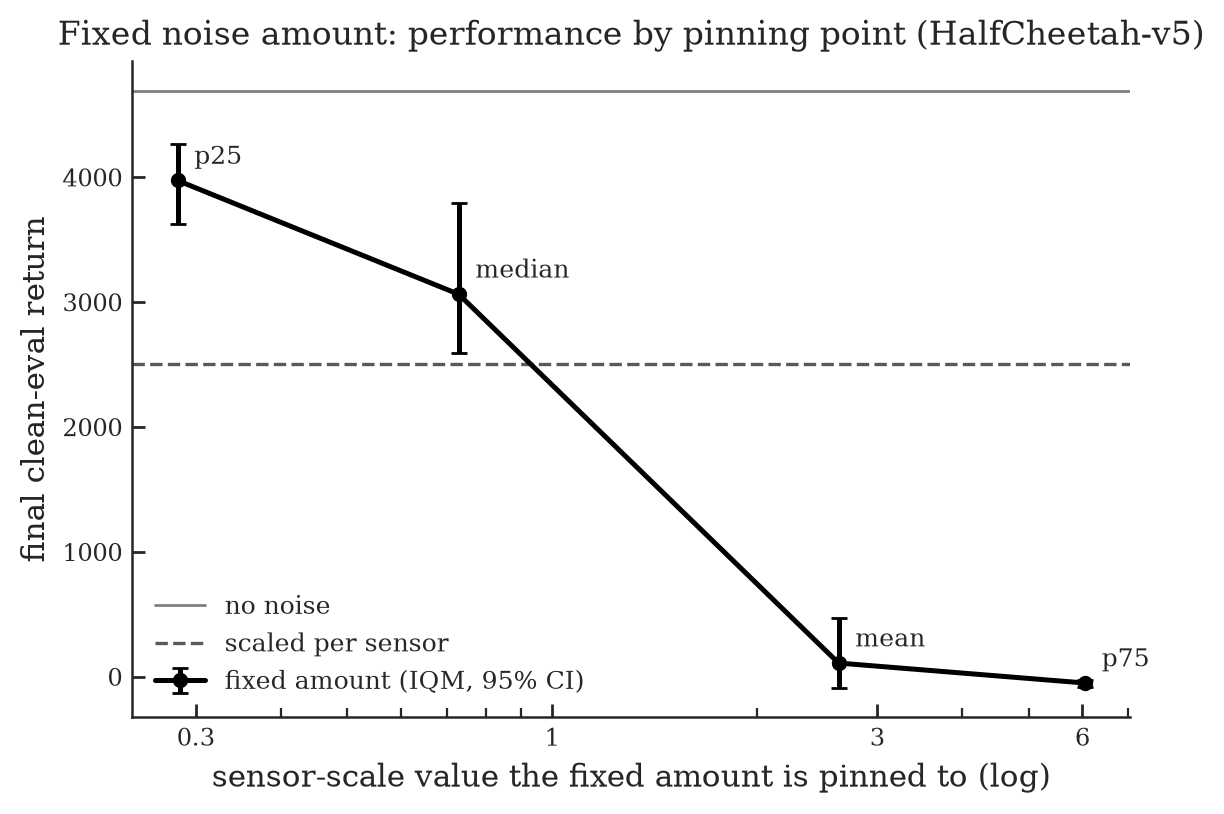
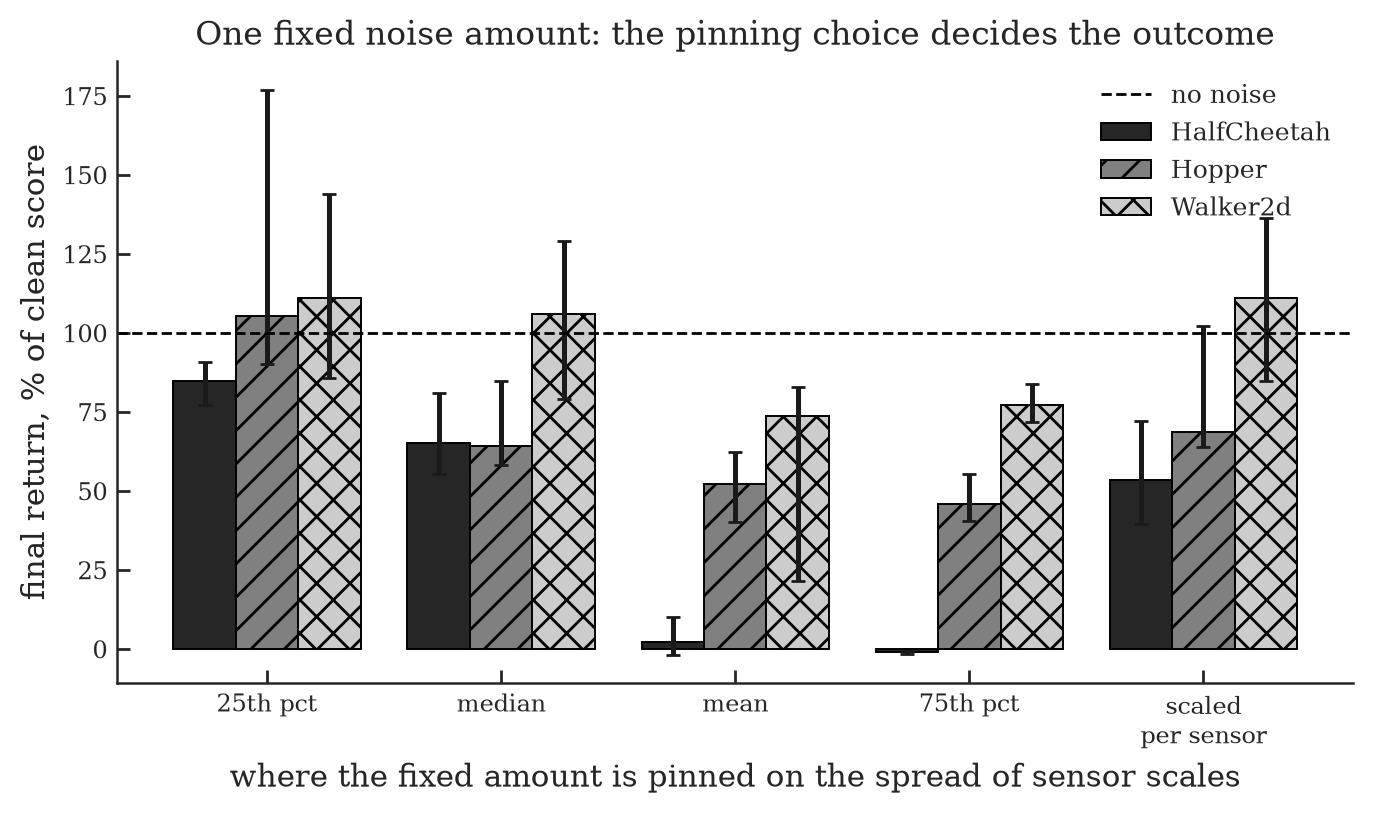
feat: generalise fixed-pinning study to Hopper and Walker2d; results-first README
- fixed-pinning runs on Hopper-v5 and Walker2d-v5 (8 seeds each); the pinning
  figure is now a grouped bar chart across all three environments
- README restructured to lead with the four findings and one results table;
  AUDIT.md removed and assets pruned to the five referenced figures

diff --git a/scripts/plot_fixed.py b/scripts/plot_fixed.py
@@ -1,8 +1,10 @@
-"""Final return vs where the fixed noise amount is pinned on the sensor-scale
-spread. Reads a results dir with fixed-<stat> runs plus 'none' and
-'uniform-calibrated' anchors.
+"""Bar chart: final return (% of clean) for the fixed noise amount pinned at
+each summary of the sensor-scale spread, next to the per-sensor scaled
+version, grouped by environment. Reads results dirs with fixed-<stat> runs
+plus 'none' and 'uniform-calibrated' anchors.
 
-  uv run python scripts/plot_fixed.py --outdir results_fixed --figdir assets
+  uv run python scripts/plot_fixed.py --figdir assets \
+      --pairs HalfCheetah-v5:results_fixed Hopper-v5:results_fixed_hopper Walker2d-v5:results_fixed_walker2d
 """
 
 from __future__ import annotations
@@ -10,18 +12,16 @@ from __future__ import annotations
 import json
 import os
 
-import gymnasium as gym
 import matplotlib.pyplot as plt
 import numpy as np
 import tyro
-from matplotlib.ticker import FuncFormatter, NullFormatter
 
-from stochrl import collect_signal_stats
 from stochrl.plotting import finish, set_style
-from stochrl.presets import SCALE_STATS
 from stochrl.stats import bootstrap_ci, iqm
 
-STATS = ["p25", "median", "mean", "p75"]
+CONDITIONS = [("fixed-p25", "25th pct"), ("fixed-median", "median"), ("fixed-mean", "mean"),
+              ("fixed-p75", "75th pct"), ("uniform-calibrated", "scaled\nper sensor")]
+ENV_STYLE = [("0.15", ""), ("0.5", "//"), ("0.8", "xx")]
 
 
 def finals(outdir, mode):
@@ -34,40 +34,35 @@ def finals(outdir, mode):
     return out
 
 
-def main(outdir: str = "results_fixed", figdir: str = "assets", prefix: str = "fixed",
-         env_id: str = "HalfCheetah-v5", calib_steps: int = 10_000, calib_seed: int = 0):
+def main(figdir: str = "assets", prefix: str = "fixed",
+         pairs: list[str] = ["HalfCheetah-v5:results_fixed", "Hopper-v5:results_fixed_hopper",
+                             "Walker2d-v5:results_fixed_walker2d"]):
     set_style()
     os.makedirs(figdir, exist_ok=True)
-    # same calibration rollout the training runs used, so the x positions are
-    # the actual pinned values
-    scale = collect_signal_stats(gym.make(env_id), steps=calib_steps, seed=calib_seed).scale
 
-    xs, pts, err = [], [], [[], []]
-    for stat in STATS:
-        pt, lo, hi = bootstrap_ci(finals(outdir, f"fixed-{stat}"))
-        xs.append(SCALE_STATS[stat](scale))
-        pts.append(pt)
-        err[0].append(pt - lo)
-        err[1].append(hi - pt)
-
-    clean = iqm(finals(outdir, "none"))
-    calib = iqm(finals(outdir, "uniform-calibrated"))
-
-    fig, ax = plt.subplots(figsize=(6.0, 4.2))
-    ax.axhline(clean, color="0.0", ls="-", lw=1.0, alpha=0.5, label="no noise")
-    ax.axhline(calib, color="0.35", ls="--", lw=1.2, label="scaled per sensor")
-    ax.errorbar(xs, pts, yerr=err, color="black", marker="o", capsize=3,
-                label="fixed amount (IQM, 95% CI)")
-    for x, pt, stat in zip(xs, pts, STATS):
-        ax.annotate(stat, (x, pt), textcoords="offset points", xytext=(6, 6), fontsize=9)
-    ax.set_xscale("log")
-    ax.set_xticks([0.3, 1, 3, 6])
-    ax.xaxis.set_major_formatter(FuncFormatter(lambda v, _: f"{v:g}"))
-    ax.xaxis.set_minor_formatter(NullFormatter())
-    ax.set(xlabel="sensor-scale value the fixed amount is pinned to (log)",
-           ylabel="final clean-eval return")
-    ax.set_title(f"Fixed noise amount: performance by pinning point ({env_id})")
-    ax.legend(loc="lower left")
+    fig, ax = plt.subplots(figsize=(7.0, 4.2))
+    x = np.arange(len(CONDITIONS))
+    width = 0.8 / len(pairs)
+    for i, pair in enumerate(pairs):
+        env_id, outdir = pair.split(":")
+        clean = iqm(finals(outdir, "none"))
+        ys, err = [], [[], []]
+        for mode, _ in CONDITIONS:
+            pt, lo, hi = bootstrap_ci(finals(outdir, mode))
+            ys.append(100 * pt / clean)
+            err[0].append(100 * (pt - lo) / clean)
+            err[1].append(100 * (hi - pt) / clean)
+        shade, hatch = ENV_STYLE[i % len(ENV_STYLE)]
+        ax.bar(x + (i - (len(pairs) - 1) / 2) * width, ys, width, yerr=err, capsize=2.5,
+               color=shade, hatch=hatch, edgecolor="black", lw=0.7,
+               label=env_id.replace("-v5", ""))
+    ax.axhline(100, color="black", ls="--", lw=1, label="no noise")
+    ax.set_xticks(x)
+    ax.set_xticklabels([label for _, label in CONDITIONS])
+    ax.set(xlabel="where the fixed amount is pinned on the spread of sensor scales",
+           ylabel="final return, % of clean score")
+    ax.set_title("One fixed noise amount: the pinning choice decides the outcome")
+    ax.legend(loc="upper right")
     finish(fig, ax)
     fig.savefig(f"{figdir}/{prefix}_pinning.png")
     print(f"Saved {figdir}/{prefix}_pinning.png")

diff --git a/README.md b/README.md
@@ -1,22 +1,30 @@
 # StochRL
 
-A benchmark for reinforcement learning under realistic sensor noise, built on Soft Actor Critic and MuJoCo.
+A benchmark for reinforcement learning under realistic sensor noise, built on Soft Actor Critic and MuJoCo (Gymnasium `HalfCheetah-v5`, `Hopper-v5`, `Walker2d-v5`).
 
-Most studies that test RL under noise add the same Gaussian jitter to every sensor. Real sensors do not behave that way. Some are noisier than others, some get worse in certain situations, and the errors are not always clean bell curves. StochRL adds noise the way real hardware does. It scales the noise to each sensor, lets it depend on what the robot is doing, and measures how much that changes what SAC learns.
+Most noise studies add the same Gaussian jitter to every sensor. Real sensors differ in scale, get worse in certain situations, and fail in non-Gaussian ways. StochRL scales noise to each sensor, lets it depend on the state, and measures the damage to learning: training always happens under noise, and every score is the return on a clean, noise free copy of the environment.
 
-The main experiments run on `HalfCheetah-v5`, with a smaller check on `Hopper-v5` and `Walker2d-v5`. Training always happens under noise, and every score is measured on a clean, noise free copy of the environment, so we see how much the noise damaged learning rather than how blind the agent is at test time.
+## Results
 
-## What we found
+**1. Scaling noise to each sensor makes the benchmark harder and fairer.** The usual baseline, one absolute amount everywhere, leaves SAC at 63% of its clean score; the same `rho` scaled per sensor drops it to 45%, and a realistic mix (drift, dropouts, rounding) to 49%. The absolute baseline looks mild only because it barely touches the large, fast sensors the controller depends on.
 
 ![Learning curves](assets/benchmark_curves.png)
 
-Noise hurts, and the usual way of adding it understates the damage. A single absolute amount barely touches the fast moving sensors, the ones the controller leans on, so scaling the noise to each sensor is fairer and clearly harder. The choice of that single amount also matters far more than it should: pinned low on the spread of sensor scales, the noise is mild; pinned at the mean, learning nearly stops.
+**2. A single fixed noise amount is an arbitrary experiment.** The one number has to be pinned somewhere on the spread of sensor scales, and that choice decides the outcome: on HalfCheetah, pinning at the 25th percentile leaves 85% of the clean score, at the mean 2%. The pattern holds on Hopper (105% at the lowest pin, 46% at the highest) and Walker2d (111% at the lowest, 74% at the worst), and no pin matches the scaled version on all three environments. A fixed amount means a different thing on every robot; `rho` scaled per sensor means the same thing everywhere.
 
-Where the noise lands matters as much as how much is added. The same total noise, aimed at the fast and busy moments, hurts far more than noise spread evenly over time. And the damage runs through the speed sensors: noise on the joint angles barely dents performance, while the same relative noise on the speed sensors is very damaging.
+![Fixed amount by pinning choice](assets/fixed_pinning.png)
 
-## All results in one place
+**3. Where the noise lands in time matters as much as how much there is.** With total noise held equal, concentrating velocity-sensor noise at the fast moments costs 72% → 54%, well outside the seed spread. The identical manipulation on position sensors does nothing (92% vs 89%). With both groups noisy, velocity timing alone explains the damage.
 
-Return is shown as a percentage of the no noise score, so higher is better.
+![Velocity timing](assets/statedep_curves.png)
+
+**4. Damage grows steeply with the noise level.** At 5 / 10 / 20% of each sensor's spread, calibrated noise leaves 80 / 45 / 18% of the clean score (realistic mix: 79 / 49 / 29%).
+
+![Score vs noise level](assets/rho_sweep.png)
+
+### Every number
+
+Return as a percentage of the no noise score for that study; higher is better.
 
 | Experiment | Condition | Return vs no noise | Seeds |
 |---|---|---|---|
@@ -29,6 +37,8 @@ Return is shown as a percentage of the no noise score, so higher is better.
 | | mean of sensor scales | 2% | 8 |
 | | 75th percentile of sensor scales | -1% | 8 |
 | | scaled to each sensor (8-seed rerun) | 53% | 8 |
+| Fixed pinning, Hopper-v5 | p25 / median / mean / p75 / scaled | 105%, 64%, 52%, 46%, 69% | 8 |
+| Fixed pinning, Walker2d-v5 | p25 / median / mean / p75 / scaled | 111%, 106%, 74%, 77%, 111% | 8 |
 | Velocity timing | steady over time | 72% | 8 |
 | | concentrated at fast moments | 54% | 8 |
 | Position timing | steady over time | 92% | 8 |
@@ -44,85 +54,46 @@ Return is shown as a percentage of the no noise score, so higher is better.
 
 ## How the noise is added
 
-Every sensor gets noise sized to its own normal range. For one sensor at one moment the rule is
+For one sensor at one moment:
 
 ```
 noise size = rho * (that sensor's normal spread) * (a state factor)
 ```
 
-`rho` is the single knob, set to 0.1, which means 10 percent. Flat noise keeps the state factor constant, so a sensor gets the same jitter whether the robot is calm or thrashing. State dependent noise keeps the total the same but concentrates it at the extreme moments: more noise at high speed for a speed sensor, more at large deflections for a joint angle. Sensors can also get richer patterns: positions get a little Gaussian noise plus rounding, like a real encoder, and velocities get slow drift plus the occasional dropped reading.
+Each sensor's normal spread is measured once from a 10,000 step random rollout (fixed seed, shared by every run). `rho` is the single knob, 0.1 by default. The state factor is 1 for flat noise; for state dependent noise it grows with distance from the sensor's typical value (fast motion, large deflection), and the flat control uses a constant matched to the same average variance, so the two differ only in timing. Richer patterns compose from Gaussian noise, Ornstein-Uhlenbeck drift, dropout, quantization, bias and delay.
 
-![Clean vs noisy signals](assets/02_trajectories.png)
-
-Sizing per sensor matters because the sensors are on very different scales. On HalfCheetah they span about forty times, so a single absolute amount is huge for the small sensors and invisible for the large ones.
+Sizing per sensor matters because the scales are heavily skewed: spans of 37x (HalfCheetah), 72x (Hopper) and 112x (Walker2d) between the smallest and largest channels, with a few fast velocity channels pulling the mean far above the median.
 
 ![Per sensor scale](assets/01_signal_scale.png)
 
-## The experiments
-
-### Noise style
-
-Adding noise at `rho = 0.1` drops SAC to between 45 and 63 percent of its clean score (learning curves above), and the clean run is still improving at the end while the noisy ones have flattened. The absolute amount version looks least harmful only because it barely perturbs the fast sensors; scaled to each sensor, the noise bites harder. The realistic mix lands in between.
-
-### Where the fixed amount is pinned
-
-The sensor scales that a single absolute amount summarises are heavily skewed: on HalfCheetah the 25th percentile is 0.28, the median 0.73, the mean 2.6 and the 75th percentile 6.1, because a few fast velocity channels pull the upper end. Pinning the fixed amount to each of those points gives completely different verdicts, from mild to fatal, with the per sensor scaled version in between. A benchmark built on one fixed number is largely a benchmark of where that number was pinned.
-
-![Fixed amount by pinning point](assets/fixed_pinning.png)
-
-### Where the noise lands
-
-Each condition here carries the same total noise and differs only in timing. On the velocity sensors the timing matters: concentrating the noise at the fast moments drops the score from 72 to 54 percent of clean, a gap well outside the spread across seeds. On the position sensors it barely does (92 versus 89 percent, within the seed spread). With both groups noisy at once the velocity timing does the damage: it drops 69 to 54 percent, position timing only reaches 61, and both together are no worse than velocity timing alone. State dependence matters where the sensor matters, and on HalfCheetah that is velocity.
-
-![Velocity timing](assets/statedep_curves.png)
-
-### How damage scales with the noise level
-
-![Score vs noise level](assets/rho_sweep.png)
-
-At 20 percent of each sensor's spread, SAC drops below a third of its clean score. The two styles look the same at low levels, and the realistic drift noise becomes somewhat less harmful as the level rises, probably because slow drift is more predictable than fresh random jitter. The spread across seeds is wide at 20 percent, so treat that gap as a trend.
-
-### Other environments
-
-The noise style study repeats on Hopper-v5 and Walker2d-v5 at 5 seeds. On Hopper the ordering flips: the absolute amount hurts more than the scaled version (42 versus 78 percent), most likely because Hopper's sensors sit on smaller scales, so the same absolute number is relatively larger there, and the realistic mix is the most damaging at 27 percent. Walker2d says less: even without noise SAC reaches only about 340 in 50,000 steps, versus roughly 4,700 on HalfCheetah, and at that level the three noise styles are indistinguishable.
-
-## Parameters and constants
-
-Everything the experiments and code depend on, in one place.
+## Setup
 
 | Setting | Value |
 |---|---|
-| Environment | HalfCheetah-v5 for the main studies; Hopper-v5 and Walker2d-v5 for the environment check |
-| Algorithm | Soft Actor Critic, CleanRL single file, run unchanged |
+| Algorithm | Soft Actor Critic, CleanRL single file, run unchanged (verbatim reproduction checked to the digit) |
 | Replay buffer | stable-baselines3 buffer, size 1,000,000 |
 | Network | two hidden layers of 256 units, ReLU, twin critics, tanh Gaussian policy |
-| Discount gamma | 0.99 |
-| Target smoothing tau | 0.005 |
-| Batch size | 256 |
-| Learning starts after | 5,000 steps |
-| Policy learning rate | 3e-4 |
-| Critic learning rate | 1e-3 |
+| Discount gamma / smoothing tau | 0.99 / 0.005 |
+| Batch size / learning starts | 256 / 5,000 steps |
+| Learning rates | policy 3e-4, critics 1e-3 |
 | Update schedule | policy every 2 steps, target networks every step |
 | Entropy temperature | tuned automatically, target entropy equal to minus the action dimension |
 | Log std range | negative 5 to positive 2 |
 | Training length | 50,000 steps per run, a short prototype budget (real studies use 1,000,000) |
 | Noise level rho | 0.1 by default, also 0.05 and 0.2 for the level sweep |
-| Calibration | each sensor's scale measured from a 10,000 step random rollout, fixed seed 0, shared by all runs |
+| Calibration | per-sensor spread from a 10,000 step random rollout, fixed seed 0, shared by all runs |
 | State factor, state dependent | 0.5 plus the distance from typical, in units of the sensor's own spread |
-| State factor, flat | a constant equal to the root mean square of the above, about 1.43, so both inject equal total noise |
-| Position channels used | joint angle sensors only, the first two (torso height and pitch) are left clean because they drift between runs |
-| Evaluation | 3 episodes on a clean environment every 2,500 steps, using the greedy mean action |
-| Seeds | 3 for the noise style and level studies, 8 for the state dependence and fixed amount studies, 5 for Hopper and Walker2d |
-| Aggregation | interquartile mean across seeds with a 95 percent bootstrap interval, falls back to the plain mean below 4 seeds |
-| Compute | CPU, 1 thread per run, 12 runs in parallel, which is fastest for these small networks |
+| State factor, flat | a constant equal to the root mean square of the above, so both inject equal total noise |
+| Position channels used | joint angle sensors only; the root pose channels are left clean because they drift between runs |
+| Random streams | observation noise, action noise, calibration, env and policy all seeded independently; identical seeds give byte-identical runs |
+| Evaluation | 3 episodes on a clean environment every 2,500 steps, greedy mean action |
+| Seeds | 3 for the noise style and level studies, 8 for the state dependence and fixed amount studies (all environments), 5 for the Hopper and Walker2d noise style check |
+| Aggregation | interquartile mean across seeds with a 95 percent bootstrap interval, plain mean below 4 seeds |
+| Compute | CPU, 1 thread per run, 12 runs in parallel |
 
-## Correctness and limits
+Limits: the budget is a short 50,000 steps everywhere; the 3-seed studies are plain means; Walker2d barely learns at this budget, so its numbers say little. The stochastic transition variant (jolting the world rather than the readings) and a comparison across learning algorithms are still to do.
 
-The SAC and noise code went through a line-by-line correctness review that caught and fixed four real bugs, among them a miscalibrated drift process and a calibration seed that varied between runs. Swapping in the exact CleanRL SAC reproduced our numbers to the digit, which confirms the baseline is faithful. Full notes live in AUDIT.md.
-
-The limits: the budget is a short 50,000 steps everywhere. The noise style and level studies use 3 seeds and are reported as plain means; the state dependence and fixed amount studies use 8 seeds with interquartile means and intervals; the Hopper and Walker2d checks use 5. Walker2d barely learns at this budget, so its numbers say little. The stochastic transition variant, where the world itself is jolted rather than the readings, and a comparison across learning algorithms are both still to do.
-
-## Reproduce it
+## Reproduce
 
 ```bash
 uv sync
@@ -135,11 +106,18 @@ uv run python scripts/run_benchmark.py --modes none uniform uniform-calibrated r
     --seeds 1 2 3 --total-timesteps 50000 --jobs 12 --threads-per-job 1 --outdir results_modes
 uv run python scripts/plot_results.py --outdir results_modes --figdir assets --prefix benchmark
 
-# fixed amount by pinning point
+# fixed amount by pinning point, on all three environments
 uv run python scripts/run_benchmark.py \
     --modes none fixed-p25 fixed-median fixed-mean fixed-p75 uniform-calibrated \
     --seeds 1 2 3 4 5 6 7 8 --total-timesteps 50000 --jobs 12 --threads-per-job 1 --outdir results_fixed
-uv run python scripts/plot_fixed.py --outdir results_fixed --figdir assets
+uv run python scripts/run_benchmark.py --env-id Hopper-v5 \
+    --modes none fixed-p25 fixed-median fixed-mean fixed-p75 uniform-calibrated \
+    --seeds 1 2 3 4 5 6 7 8 --total-timesteps 50000 --jobs 12 --threads-per-job 1 --outdir results_fixed_hopper
+uv run python scripts/run_benchmark.py --env-id Walker2d-v5 \
+    --modes none fixed-p25 fixed-median fixed-mean fixed-p75 uniform-calibrated \
+    --seeds 1 2 3 4 5 6 7 8 --total-timesteps 50000 --jobs 12 --threads-per-job 1 --outdir results_fixed_walker2d
+uv run python scripts/plot_fixed.py --figdir assets --pairs HalfCheetah-v5:results_fixed \
+    Hopper-v5:results_fixed_hopper Walker2d-v5:results_fixed_walker2d
 
 # state dependence study, velocity and position and both
 uv run python scripts/run_benchmark.py \
@@ -155,7 +133,7 @@ uv run python scripts/run_benchmark.py --modes uniform-calibrated realistic --se
 uv run python scripts/plot_rho.py --pairs 0.05:results_rho005 0.1:results_modes 0.2:results_rho020 \
     --clean-dir results_modes
 
-# other environments (repeat with Walker2d-v5 / results_walker2d / --prefix walker2d)
+# other environments, noise style (repeat with Walker2d-v5 / results_walker2d / --prefix walker2d)
 uv run python scripts/run_benchmark.py --env-id Hopper-v5 --modes none uniform uniform-calibrated realistic \
     --seeds 1 2 3 4 5 --total-timesteps 50000 --jobs 12 --threads-per-job 1 --outdir results_hopper
 uv run python scripts/plot_results.py --outdir results_hopper --figdir assets --prefix hopper
@@ -176,6 +154,6 @@ scripts/
   sac_continuous_action.py   the CleanRL SAC with noise switched in
   run_benchmark.py           run many seeds and modes in parallel
   plot_results.py            turn results into figures and tables
-  plot_fixed.py              the fixed-amount pinning figure
+  plot_fixed.py              the fixed-amount pinning figures
   plot_rho.py                the noise level figure
 ```